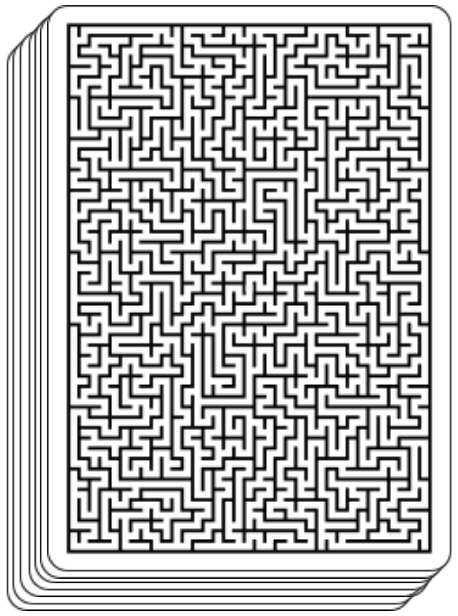
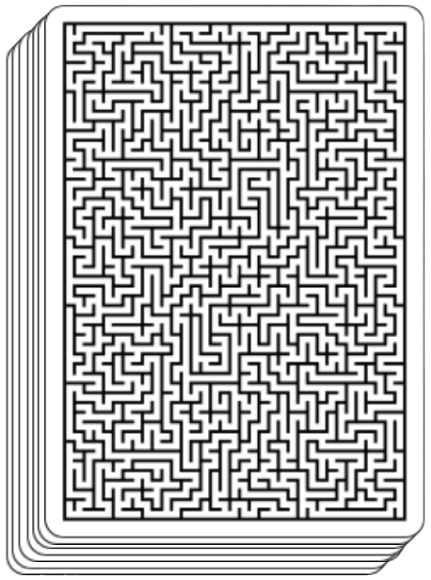
Major refactor and styling on the Bet Components

diff --git a/src/components/Bet.tsx b/src/components/Bet.tsx
@@ -1,6 +1,8 @@
 import React from 'react';
-import { View, Text, StyleSheet, Button } from 'react-native';
+import { View, Text, StyleSheet, Button, TouchableOpacity } from 'react-native';
 import { Bet } from 'card-games-typescript';
+import { screen } from '../config';
+import MyButton from './MyButton';
 
 type BetState = {
   bet: Bet,
@@ -30,6 +32,7 @@ class BetDisplay extends React.Component<BetProps, BetState> {
     if (this.props.acceptBets && isValidBet) {
       this.setState({
         bet: {
+          ...this.state.bet,
           ammount: this.state.bet.ammount + delta,
         }
       })
@@ -37,26 +40,50 @@ class BetDisplay extends React.Component<BetProps, BetState> {
   }
 
   onSelectBet(option) {
-    const state = Object.assign({}, this.state); // copy state to object to be manipulated
-    state.bet.on = option;
+    this.setState({
+      bet: {
+        ...this.state.bet,
+        on: option
+      }
+    });
+  }
+
+  onSetBet() {
     if (this.props.acceptBets) {
-      this.props.onSetBet(state.bet); // callback function that dispatches action to set bet
+      this.props.onSetBet(this.state.bet); // callback function that dispatches action to set bet
     }
   }
 
   render() {
     return (
       <View style={styles.container}>
-        <View>
-          <Button title="low" onPress={() => {this.onSelectBet('low')}} />
-          <Button title="draw" onPress={() => {this.onSelectBet('draw')}} />
-          <Button title="high" onPress={() => {this.onSelectBet('high')}} />
+        <View style={styles.containerAction}>
+          <Button 
+            title={`Bet ${this.state.bet.ammount}\$ on ${this.state.bet.on !== 'pass' ? this.state.bet.on : '?'}`}
+            onPress={() => {this.onSetBet()}} />
         </View>
-        <View>
-          <Button title="+" onPress={() => {this.onSetAmmount(true)}} />
-          <Button title="-" onPress={() => {this.onSetAmmount(false)}} />
-          <Text>Bet: {this.state.bet.ammount}$ on {this.state.bet.on !== 'pass' ? this.state.bet.on : 'playerToDecide'} </Text>
+        <View style={styles.containerSelection}>
+          <View style={styles.containerBetAmmount}>
+            <MyButton 
+              title="+" 
+              onPress={() => {this.onSetAmmount(true)}} />            
+            <MyButton 
+              title="-" 
+              onPress={() => {this.onSetAmmount(false)}} />
+          </View>
+          <View style={styles.containerBetType}>
+            <MyButton 
+              title="low" 
+              onPress={() => {this.onSelectBet('low')}} />
+            <MyButton 
+              title="draw" 
+              onPress={() => {this.onSelectBet('draw')}} />
+            <MyButton 
+              title="high" 
+              onPress={() => {this.onSelectBet('high')}} />
+          </View>
         </View>
+
       </View>
     );    
   }
@@ -65,8 +92,28 @@ class BetDisplay extends React.Component<BetProps, BetState> {
 
 const styles = StyleSheet.create({
   container: {
+    flex: 2/3,
+    flexDirection: 'column',
+    width: screen.width * 0.4,
+  },
+  containerSelection: {
     flex: 1,
-  }
+    flexDirection: 'row',
+  },
+  containerAction: {
+    paddingBottom: 7,
+  },
+  containerBetAmmount: {
+    flex: 1,
+    flexDirection: 'column',
+    paddingRight: 7,
+  },
+  containerBetType: {
+    flex: 1,
+  },
+  containerButton:{
+    flex: 1,
+  },
 });
 
 export default BetDisplay;

diff --git a/src/views/GameView.tsx b/src/views/GameView.tsx
@@ -1,28 +1,22 @@
 import React from 'react'
 import { View, StyleSheet } from 'react-native'
-import CreditPlayer from '../components/Credit';
 import PlayerCards from '../components/PlayerCards';
-import BetDisplay from '../components/Bet';
-import DealButton from '../components/Deal'; 
+import ActionDisplay from '../components/ActionDisplay';
 import { screen } from '../config';
+import CreditPlayer from '../components/Credit';
 
 const GameView = (props) => {
   return(
     <View style={styles.container}>
       <CreditPlayer 
-        ammount={props.player.creditAmmount} />
-      <DealButton 
-        callbackFunction={props.actionGameDeal}
-        disabled={!props.gameStatus.dealMode} /> 
+          ammount={props.player.creditAmmount} />
       <PlayerCards 
         cards={props.dealer.cards} 
         username={'Dealer'} 
         displayCards={props.gameStatus.endMode}
         numCardsPerHand={props.numCardsPerHand} />
-      <BetDisplay 
-        betMaximum={props.player.creditAmmount}
-        onSetBet={(bet) => {props.actionGameBet([bet])}}
-        acceptBets={props.gameStatus.betMode} />
+      <ActionDisplay 
+        {...props} />
       <PlayerCards 
         cards={props.player.cards} 
         username={props.player.username} 
@@ -35,8 +29,8 @@ const GameView = (props) => {
 const styles = StyleSheet.create({
   container: {
     flex: 1,
-    alignItems: "center",
-    paddingTop: screen.heightScreen - screen.heightWindow,
+    // alignItems: "center",
+    paddingTop: (screen.heightScreen - screen.heightWindow)/2,
     backgroundColor: 'green',
   },
 })

diff --git a/src/components/ActionDisplay.tsx b/src/components/ActionDisplay.tsx
@@ -1,0 +1,41 @@
+import React from 'react'
+import { View, StyleSheet } from 'react-native'
+import CreditPlayer from '../components/Credit';
+import BetDisplay from '../components/Bet';
+import DealButton from '../components/Deal'; 
+
+
+const ActionDisplay = (props) => {
+  return (
+    <View style={styles.container}>
+      <View style={styles.containerBet}>
+        <BetDisplay 
+          betMaximum={props.player.creditAmmount}
+          onSetBet={(bet) => {props.actionGameBet([bet])}}
+          acceptBets={props.gameStatus.betMode} />
+      </View>
+      <View style={styles.containerDeal}>
+        <DealButton 
+          callbackFunction={props.actionGameDeal}
+          disabled={!props.gameStatus.dealMode} /> 
+      </View>
+    </View>
+  )
+}
+
+const styles = StyleSheet.create({
+  container: {
+    flex: 1,
+    flexDirection: 'row',
+    justifyContent: 'space-between',
+    alignItems: 'center',
+  },
+  containerBet: {
+    marginLeft: 25,
+  },
+  containerDeal: {
+    marginRight: 25,
+  },
+});
+
+export default ActionDisplay;

diff --git a/src/components/MyButton.tsx b/src/components/MyButton.tsx
@@ -1,0 +1,43 @@
+import React from 'react';
+import { Text, TouchableOpacity, StyleSheet } from 'react-native';
+
+// This is a button that uses flex
+// to expand to match the parent container
+const MyButton = ({ title, onPress, style={}, disabled=false }) => {
+  const stylesContainer = [styles.container, style];
+  const stylesText = [styles.text, style];
+  if (disabled) {
+    stylesContainer.push(styles.disabled)
+  }
+  return (
+    <TouchableOpacity
+      onPress={ () => {onPress()} }
+      disabled={disabled} 
+      style={stylesContainer} >
+      <Text style={stylesText}>
+        {title}
+      </Text>
+    </TouchableOpacity>
+  )
+}
+
+const styles = StyleSheet.create({
+  container: {
+    flex: 1,
+    elevation: 4,
+    backgroundColor: '#2196F3',
+    borderRadius: 2,
+    alignContent: 'center',
+  },
+  disabled: {
+    backgroundColor: '#dfdfdf',
+  },
+  text: {
+    textAlign: 'center',
+    padding: 8,
+    color: 'white',
+    fontWeight: 'bold',
+  }
+})
+
+export default MyButton;

diff --git a/src/components/Deal.tsx b/src/components/Deal.tsx
@@ -1,24 +1,24 @@
 import React from 'react';
-import { Button, StyleSheet, View } from 'react-native';
+import { TouchableOpacity, Image, StyleSheet } from 'react-native';
 
 const DealButton = ({ callbackFunction, disabled }) => {
   return (
-    // <View style={styles.container}>
-      <Button 
-        title="Deal" 
+      <TouchableOpacity
         onPress={() => {callbackFunction()}}
-        disabled={disabled}
-        />
-    // </View>
+        disabled={disabled}>
+        <Image
+          style={styles.imageCard}
+          source={require('../../assets/deck_full_ordered.png')} />
+      </TouchableOpacity>
   )
 }
 
 const styles = StyleSheet.create({
-  container: {
-    flex: 1,
-    // top: 100,
-    // margin: 10,
-  }
+  imageCard: {
+    width: 440/5,
+    height: 600/5,
+    transform: [{ rotate: '-90deg'}]
+  },
 });
 
 export default DealButton;

diff --git a/src/components/Credit.tsx b/src/components/Credit.tsx
@@ -15,17 +15,11 @@ const CreditPlayer = ({ ammount }) => (
 
 const styles = StyleSheet.create({
   container: {
-    position: 'absolute',
-    flexDirection: 'row',
-    top: 60,
-    right: 10,
-    width: 60,
   },
   text: {
     fontWeight: 'bold',
   },
   image: {
-    // flex: 1,
     height: 20,
     width: 20,
     marginLeft: 5,

diff --git a/src/logic/images.tsx b/src/logic/images.tsx
@@ -1,4 +1,6 @@
 export const ImageList = {
+  'deck_full_ordered_svg': require('../../assets/deck_full_ordered.svg'),
+  'deck_full_ordered_png': require('../../assets/deck_full_ordered.svg'),
   '1B': require('../../assets/1B.svg'),
   '7C': require('../../assets/7C.svg'),
   'QH': require('../../assets/QH.svg'),
